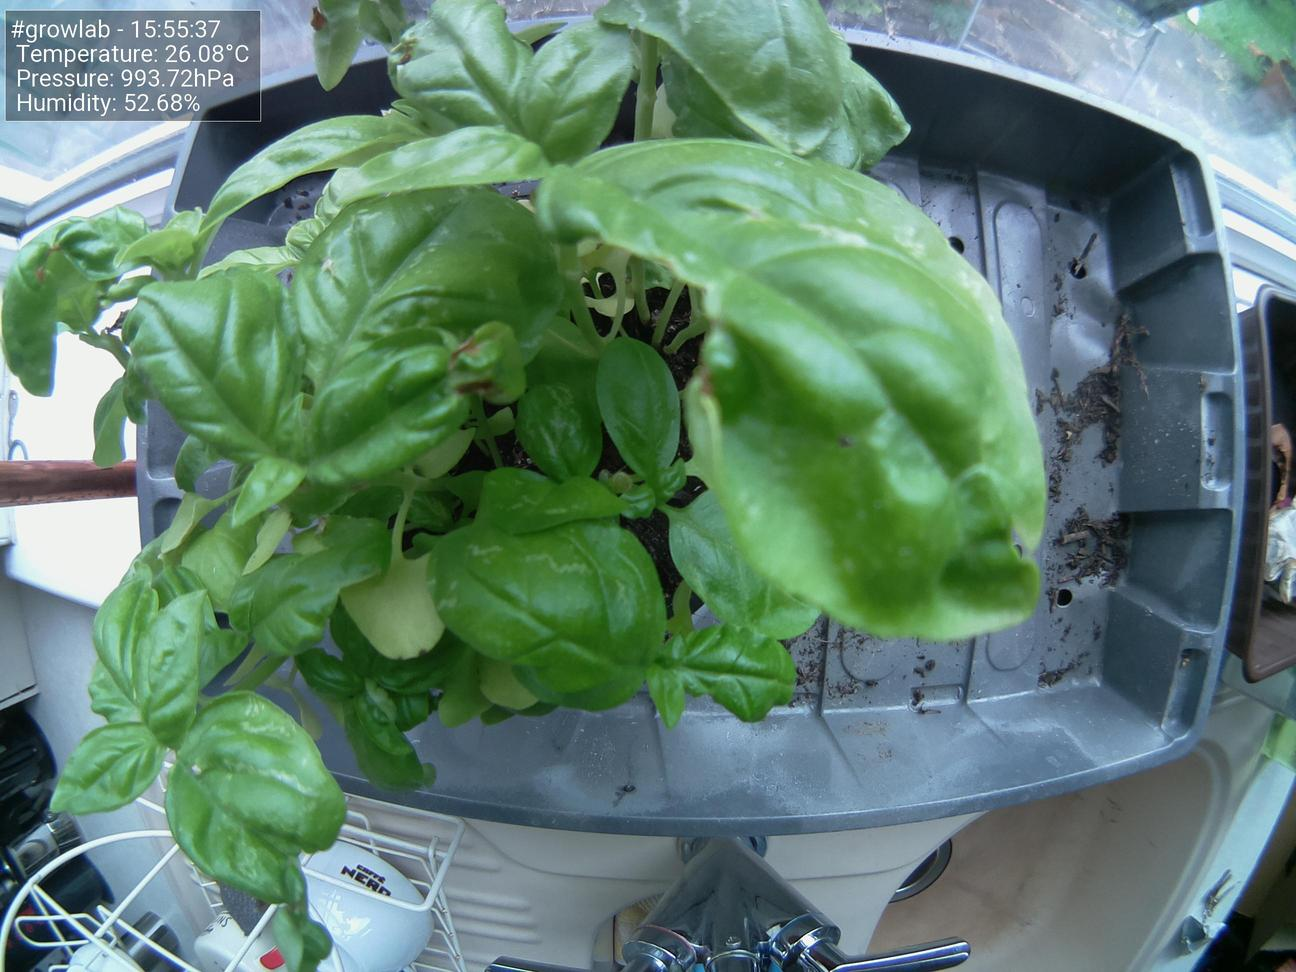
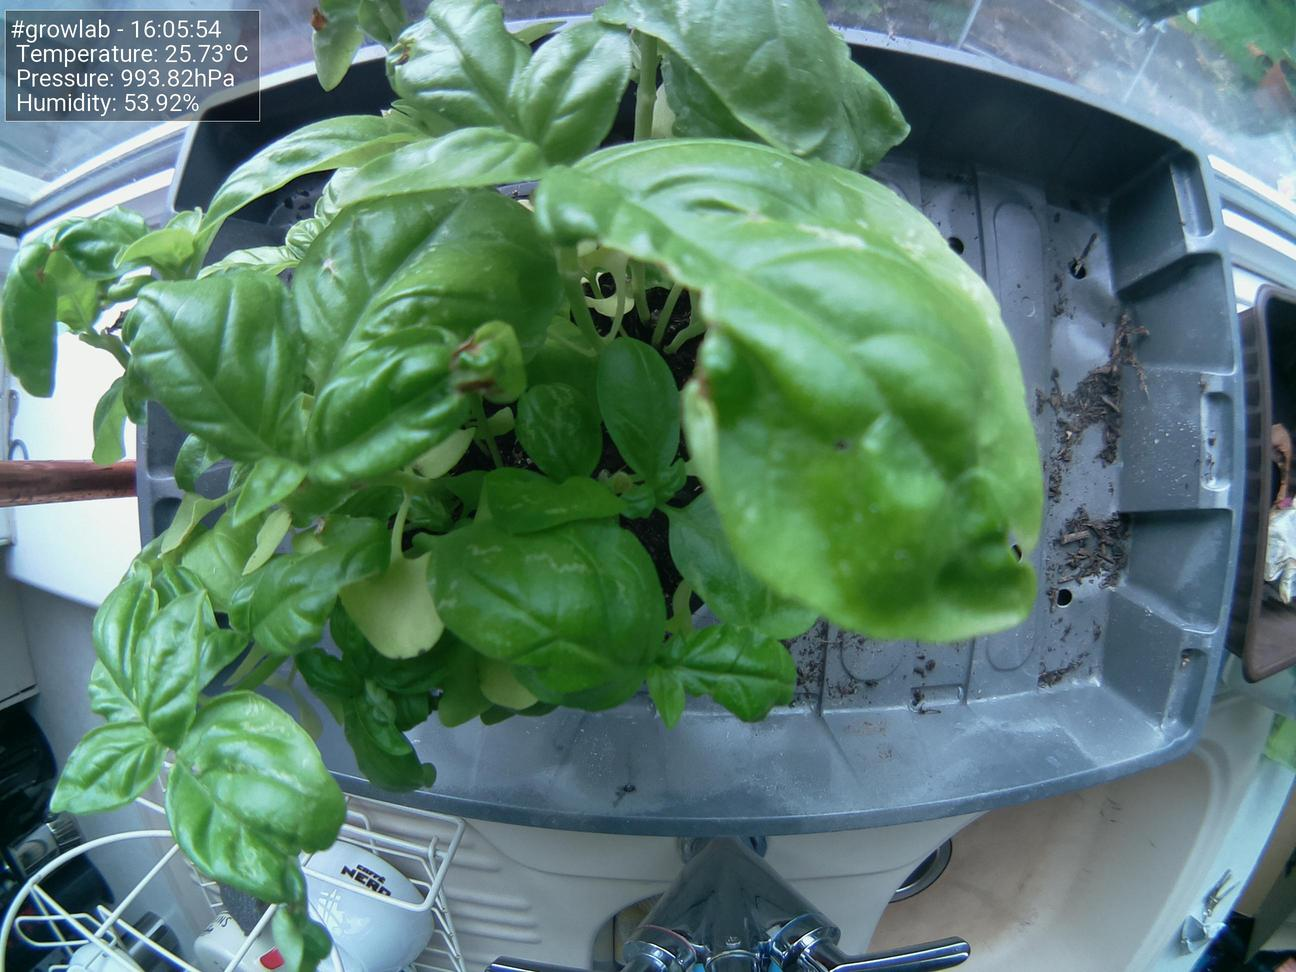
Update images at Sat  7 Aug 16:06:03 BST 2021

diff --git a/docs/index.html b/docs/index.html
@@ -47,19 +47,19 @@
                         <tbody>
                             <tr>
                                 <td>Time</td>
-                                <td>15:55:37</td>
+                                <td>16:05:54</td>
                             </tr>
                             <tr>
                                 <td>Temperature</td>
-                                <td>26.08°C</td>
+                                <td>25.73°C</td>
                             </tr>
                             <tr>
                                 <td>Humidity</td>
-                                <td>52.68%</td>
+                                <td>53.92%</td>
                             </tr>
                             <tr>
                                 <td>Pressure</td>
-                                <td>993.72hPa</td>
+                                <td>993.82hPa</td>
                             </tr>
                         </tbody>
                     </table>
@@ -67,7 +67,7 @@
 
                 <h5>Latest image</h5>
                 <div style="width: 85%;">
-                            <img class="figure-img img-fluid rounded" src="./preview.jpg?uid=1628348146.193924">
+                            <img class="figure-img img-fluid rounded" src="./preview.jpg?uid=1628348763.1238735">
                 </div>
             </div>
         </div>
